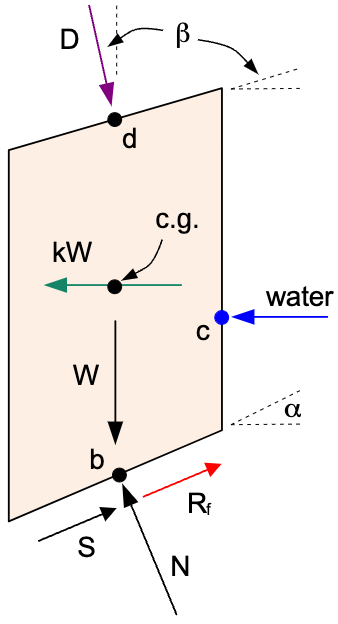
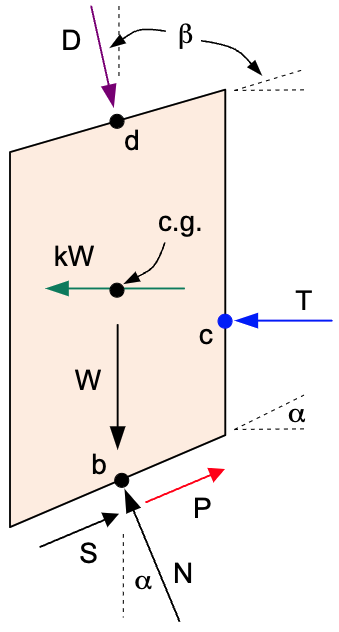
Finished complete formulation of OMS equation

diff --git a/docs/methods/oms.md b/docs/methods/oms.md
@@ -82,84 +82,70 @@ $water$ = tension crack water force <br>
 
 The rest of the forces are the same as before.
 
-### Distributed Load
-
-The **distributed load** resultant force $D$ is calculated from the distributed load input which is defined as a stress along the top of the slope. It is assumed to act perpendicular to the slope therefore the inclination of the distributed load from a vertical line is equal to the slope angle. The distributed load acts through point $d$ which is often the center of the slice, but it can be offset from the center, depending on how the distributed load is defined. 
-
-**REDO THIS PART AND GO BACK TO SIMPLE ORIGINAL FORMULATION**
-
-To recalculate the factor of safety to account for the distributed load, we start by redefining the **effective weight**. If we consider the distributed load to effectively increase the weigh of the slice, we can represent the effective weight as:
-
->$W' = (W + D \cos \beta) - u b$
-
->$W' = W + D \cos \beta - u \Delta \ell cos \alpha   \qquad (4)$
-
-Then the effective normal force is:
-
->$N' = W' \cos \alpha$
-
-Substituting (4) into this gives:
-
->$N' = (W + D \cos \beta - u \Delta \ell cos \alpha) \cos \alpha$
-
->$N' = W \cos \alpha + D \cos \beta \cos \alpha - u \Delta \ell \cos^2 \alpha  \qquad (5)$
-
-We also need to consider the distributed load in the denominator of the factor of safety equation. Before we do this, we recall that the OMS equation is based on moments about the center of the slip circle. The moments in the original method of slices formulation included the weight of the slice and the shear force. The normal force acts through the center of the slice and therefore produces no moment. In the original equation, the limit equilibrium equation is:
-
->$F = \dfrac{R \sum S}{R \sum W sin \alpha}$
-
-R is the moment arm for both $S$ and $W sin \alpha$. Before, we factored out the R value because it was in both the numerator and denominator. But now we have a distributed load $D$ that is not acting through the center of the slice. The moment arm for the distributed load is the shortest distance from the center of the circle to a line parallel to $D$ that passes through point $d$. We will call this distance $a_d$. Thus, the moment from the distributed load is:
-
->$M_D = a_d D  \qquad (6)$
-
-Substituting the effective normal force defined by (5) into the numerator and (6) into the denominator of the preferred formulation (3) gives:
-
->$F = \dfrac{R \sum \left[ c' \Delta \ell + (W \cos \alpha + D \cos \beta \cos \alpha - u \Delta \ell \cos^2 \alpha) \tan \phi'\right]}{R \sum W \sin \alpha + \sum a_d D}   \qquad (7)$
-
-Or if we divide everything by R, we get:
-
->$F = \dfrac{\sum \left[ c' \Delta \ell + (W \cos \alpha + D \cos \beta \cos \alpha - u \Delta \ell \cos^2 \alpha) \tan \phi'\right]}{\sum W \sin \alpha + \dfrac{1}{R} \sum a_d D}   \qquad (8)$
-
-### Seismic Force
+The **distributed load** resultant force $D$ is calculated from the distributed load input which is defined as a stress along the top of the slope. It is assumed to act perpendicular to the slope, therefore the inclination of the distributed load from a vertical line is equal to the slope angle, $\beta$. The distributed load acts through point $d$ which is often the center of the slice, but it can be offset from the center, depending on how the distributed load is defined. 
 
 The **seismic force** $kW$ is calculated as a horizontal pseudo-static force acting on the slice through the center of gravity of the slice. It is assumed to act in the direction of sliding. It is equal to the seismic coefficient $k$ multiplied by the weight of the slice $W$. The seismic coefficient is a user-defined input, depending on the seismic conditions of the site.
 
-**REDO THIS PART USING SIMPLE ORIGINAL FORMULATION**
+The **reinforcement force** $P$ is a force on the base of the slice resisting sliding. The reinforcement force is calculated using the reinforcement lines in the input, where the user defines a longitudinal reinforcement force $F_L$ and a transverse reinforcement force $F_T$ at a series of points along each reinforcement line. With the current implementation of slope tools, only the longitudinal reinforcement force $F_L$ is used. We assume that the reinforcement is flexible and therefore bends with the sliding of the failure surface to act parallel to the bottom of the slice. Thus, the reinforcement force is equal to the sum of the interpolated $F_L$ values for the reinforcement lines that intersect the base of the slice.
 
-**ALSO, YOU NEED TO INCLUDE -KWSIN(ALPHA) TO NORMAL FORCE - SEE NOTES**
+The **water force** $T$ on the side of the slice is calculated from the tension crack water input only applies if there is both a tension crack, and if the user has selected to fill the crack with water. This force only applies to the side of the uppermost slice and pushes in the direction of sliding. The force is calculated using the hydrostatic water pressure that is zero at the top of the crack (side of slice) and = $\gamma_w d_{tc}$ where $\gamma_w$ = the unit wt of water and $d_{tc}$ is the depth of the tension crack. The resultant force = $\frac{1}{2} \gamma_w d_{tc}^2$ and it acts at point $c$ which is 1/3 of the height of the slice $d_{tc}$.
 
-The seismic force is an additional force acting in the direction of sliding and causing failure, therefore we add it to the denominator of the factor of safety equation. Since the force acts horizontally, the moment arm is equal to the vertical distance between the center of the circle and the center of gravity. If we call this distance $a_s$ then the moment arm from the seismic force is:
+### Normal Force
 
->$a_s = y_o - y_{cg}$
+To revise the factor of safety equation for the OMS method to include the $D$, $kw$, $P$, and $T$ forces, we first need to consider how these forces affect the normal force on the base of the slice. In doing so, we will return to the original equation for the normal force, not the preferred formulation that uses an effective weight. Previously, the normal force on the base of the slice was defined as:
 
-where: 
+>$N = W \cos \alpha$
 
->$y_o$ = y-coordinate of the center of the circle<br>
->$y_{cg}$ = y-coordinate of the center of gravity of the slice<br>
+This is defined by considering the forces parallel to N, or perpendicular to the base of the slice. But if we include the new foces, the normal force is:
 
-The moment from the seismic force is then:
+>$N = W \cos \alpha + D \cos(\alpha - \beta) - kW \sin \alpha - T \sin \alpha$
 
->$M_s = a_s kW$
+and the effective normal force is:
 
-Using the same method as before, we can substitute this into the denominator of the factor of safety equation. Inserting the moment from the seismic force into (8), we get:
+>$N' = W \cos \alpha + D \cos(\alpha - \beta) - kW \sin \alpha - T \sin \alpha - u \Delta \ell    \qquad (4)$
 
->$F = \dfrac{\sum \left[ c' \Delta \ell + (W \cos \alpha + D \cos \beta \cos \alpha - u \Delta \ell \cos^2 \alpha) \tan \phi'\right]}{\sum W \sin \alpha + \dfrac{1}{R} \left( \sum a_d D + k\sum a_s W \right)}   \qquad (9)$
+This effective normal force is used in the shear force equation in the numerator of the factor of safety equation. The shear force on the base of the slice was originally defined as:
 
+>$S = c \Delta \ell + N \tan \phi$
 
-### Reinforcement Force
+Substituting the new normal force from (4) into this gives:
 
-The **reinforcement force** $R_{f}$ is a force on the base of the slice resisting sliding. The reinforcement force is calculated using the reinforcement lines in the input, where the user defines a longitudinal reinforcement force $F_L$ and a transverse reinforcement force $F_T$ at a series of points along each reinforcement line. With the current implementation of slope tools, only the longitudinal reinforcement force $F_L$ is used. We assume that the reinforcement is flexible and therefore bends with the sliding of the failure surface to act parallel to the bottom of the slice. Thus, the reinforcement force is equal to the sum of the interpolated $F_L$ values for the reinforcement lines that intersect the base of the slice.
+>$S = c \Delta \ell + (W \cos \alpha + D \cos(\alpha - \beta) - kW \sin \alpha - T \sin \alpha - u \Delta \ell ) \tan \phi    \qquad (5)$
 
+### Moments
 
+The OMS equation is based on moment equilibrium about the center of the slip circle. The moments in the original method of slices formulation included the weight of the slice and the shear force. The normal force acts through the center of the slice and therefore produces no moment. In the original equation, the limit equilibrium equation is:
 
+>$F = \dfrac{R \sum S}{R \sum W sin \alpha}    \qquad (6)$ 
 
+R is the moment arm for both $S$ and $W sin \alpha$. Before, we factored out the R value because it was in both the numerator and denominator. But now we have to consider the moments resulting from the extra forces. Relative to the center of the circle, the moment arm for each force is as follows:   
 
+|      Force      | Moment Arm | Calculation |
+|:---------------:|:----------:|-------------|
+| $W \sin \alpha$ |    $R$     | Radius of the circle |
+|       $S$       |    $R$     | Radius of the circle |
+|       $D$       |   $a_d$    | Distance from center of circle to a line parallel to $D$ that passes through point $d$ |
+|      $kW$       |   $a_s$    | Vertical distance from center of circle to center of gravity of the slice |
+|       $P$       |    $R$     | Radius of the circle |
+|       $T$       |   $a_t$    | The vertical distance beteeen center of circle and the y-coordinate of point $c$ |
 
-### Water Force
+We can now add these moments to the limit equilibrium equation (6). To do this, we put resisting moments in the numerator and driving moments in the denominator. The new equation is:
 
-The **water force** $water$ on the side of the slice is calculated from the tension crack water input only applies if there is both a tension crack, and if the user has selected to fill the crack with water. This force only applies to the side of the upper-most slice and pushes in the direction of sliding. The force is calculated using the hydrostatic water pressure that is zero at the top of the crack (side of slice) and = $\gamma_w d_{tc}$ where $\gamma_w$ = the unit wt of water and $d_{tc}$ is the depth of the tension crack. The resultant force = $\frac{1}{2} \gamma_w d_{tc}^2$ and it acts at point $c$ which is 1/3 of the height of the slice $d_{tc}$.
+>$F = \dfrac{R \sum (S + P)}{R \sum W sin \alpha + \sum  D a_d + k\sum W a_s  + T a_t }   \qquad (7)$
 
+There is no summation for the term involving $T$ because it only applies to the uppermost slice. 
 
+### Complete Factor of Safety Equation
+
+Combining (5) and (7), we get:
+
+>$F = \dfrac{R \sum \left[ c \Delta \ell + (W \cos \alpha + D \cos(\alpha - \beta) - kW \sin \alpha - T \sin \alpha - u \Delta \ell ) \tan \phi + P \right]}{R \sum W sin \alpha  + \sum  D a_d + k\sum W a_s  + T a_t }   \qquad (8)$
+
+If we divide everything by R, we get:
+
+>$F = \dfrac{\sum \left[ c \Delta \ell + (W \cos \alpha + D \cos(\alpha - \beta) - kW \sin \alpha - T \sin \alpha - u \Delta \ell ) \tan \phi + P \right]}{\sum W sin \alpha + \frac{1}{R}\sum D a_d  + \frac{k}{R}\sum W a_s + \frac{1}{R} T a_t}   \qquad (9)$
+
+Remember that the water force only applies to the side of the uppermost slice, so for the summation in the numerator, the T value is zero for all other slices.
 
 ## Summary
 
